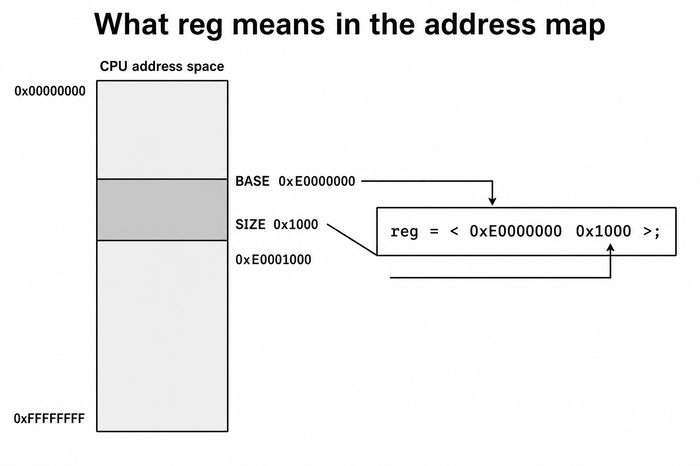
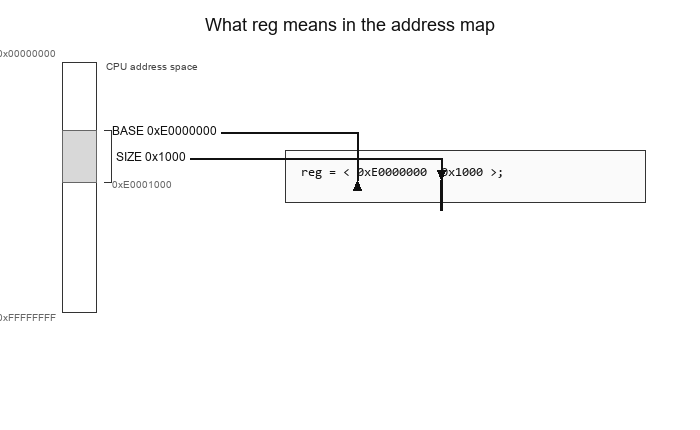
Fix Part 2 teaching figures for overall structure, reg map, and phandle.
Regenerate layout with non-overlapping skeleton code, a clean SIZE arrow, and full DT nodes linked by &clkc.

diff --git a/posts/embedded_linux/generate_part2_figures.py b/posts/embedded_linux/generate_part2_figures.py
@@ -1,0 +1,318 @@
+"""Generate Part 2 teaching figures: overall structure, reg map, phandle."""
+
+from __future__ import annotations
+
+from pathlib import Path
+
+from PIL import Image, ImageDraw, ImageFont
+
+IMG_DIR = Path(__file__).resolve().parent / "images"
+
+
+def load_font(size: int, mono: bool = False) -> ImageFont.FreeTypeFont | ImageFont.ImageFont:
+    if mono:
+        candidates = [r"C:\Windows\Fonts\consola.ttf", r"C:\Windows\Fonts\cour.ttf"]
+    else:
+        candidates = [r"C:\Windows\Fonts\arial.ttf", r"C:\Windows\Fonts\calibri.ttf"]
+    for path in candidates:
+        p = Path(path)
+        if p.exists():
+            try:
+                return ImageFont.truetype(str(p), size=size)
+            except OSError:
+                continue
+    return ImageFont.load_default()
+
+
+def text_size(draw: ImageDraw.ImageDraw, text: str, font) -> tuple[int, int]:
+    box = draw.textbbox((0, 0), text, font=font)
+    return box[2] - box[0], box[3] - box[1]
+
+
+def draw_arrow(draw: ImageDraw.ImageDraw, points: list[tuple[int, int]], width: int = 2) -> None:
+    if len(points) < 2:
+        return
+    draw.line(points, fill="#111111", width=width)
+    x1, y1 = points[-2]
+    x2, y2 = points[-1]
+    if abs(x2 - x1) >= abs(y2 - y1):
+        dx = -10 if x2 > x1 else 10
+        draw.polygon([(x2, y2), (x2 - dx, y2 - 4), (x2 - dx, y2 + 4)], fill="#111111")
+    else:
+        dy = -10 if y2 > y1 else 10
+        draw.polygon([(x2, y2), (x2 - 4, y2 - dy), (x2 + 4, y2 - dy)], fill="#111111")
+
+
+def draw_overall_structure(path: Path) -> None:
+    W, H = 920, 820
+    img = Image.new("RGB", (W, H), "white")
+    draw = ImageDraw.Draw(img)
+    title_font = load_font(18)
+    label_font = load_font(11)
+    code_font = load_font(10, mono=True)
+    note_font = load_font(10)
+
+    title = "Overall device tree structure"
+    tw, _ = text_size(draw, title, title_font)
+    draw.text(((W - tw) / 2, 14), title, fill="#111", font=title_font)
+
+    box_w, box_h, gap = 96, 24, 12
+
+    def node_box(x, y, text, fill="#f5f5f5", width=None, font=None):
+        w = width or box_w
+        font = font or label_font
+        draw.rectangle([x, y, x + w, y + box_h], fill=fill, outline="#333", width=1)
+        ttw, tth = text_size(draw, text, font)
+        draw.text((x + (w - ttw) / 2, y + (box_h - tth) / 2 - 1), text, fill="#111", font=font)
+
+    def hline(x1, x2, y):
+        draw.line([x1, y, x2, y], fill="#333", width=1)
+
+    def vline(x, y1, y2):
+        draw.line([x, y1, x, y2], fill="#333", width=1)
+
+    root_x = W // 2 - box_w // 2
+    root_y = 44
+    node_box(root_x, root_y, "/")
+    root_cx = W // 2
+    root_bot = root_y + box_h
+
+    tops = ["chosen", "aliases", "cpus", "memory@0", "reserved-memory", "axi", "fpga-region"]
+    total = len(tops) * box_w + (len(tops) - 1) * gap
+    start_x = (W - total) // 2
+    child_y = root_y + 58
+    mids = []
+    bus_y = root_bot + (child_y - root_bot) // 2
+    for i, name in enumerate(tops):
+        x = start_x + i * (box_w + gap)
+        node_box(x, child_y, name)
+        cx = x + box_w // 2
+        mids.append(cx)
+        vline(cx, bus_y, child_y)
+    vline(root_cx, root_bot, bus_y)
+    hline(mids[0], mids[-1], bus_y)
+
+    sub_y = child_y + 58
+    sub_w = 104
+    sub_font = load_font(8)
+
+    cpus_i = tops.index("cpus")
+    cpus_cx = start_x + cpus_i * (box_w + gap) + box_w // 2
+    cpu_names = ["cpu@0", "cpu@1"]
+    cpu_total = len(cpu_names) * sub_w + gap
+    cpu_start = cpus_cx - cpu_total // 2
+    cpu_bus = child_y + box_h + (sub_y - child_y - box_h) // 2
+    for i, name in enumerate(cpu_names):
+        x = cpu_start + i * (sub_w + gap)
+        node_box(x, sub_y, name, fill="#eef3ff", width=sub_w, font=sub_font)
+        cx = x + sub_w // 2
+        vline(cx, cpu_bus, sub_y)
+    vline(cpus_cx, child_y + box_h, cpu_bus)
+    hline(cpu_start + sub_w // 2, cpu_start + sub_w + gap + sub_w // 2, cpu_bus)
+
+    axi_i = tops.index("axi")
+    axi_cx = start_x + axi_i * (box_w + gap) + box_w // 2
+    axi_children = ["serial@e0000000", "i2c@e0004000", "my_ip@40000000"]
+    sub_total = len(axi_children) * sub_w + (len(axi_children) - 1) * 8
+    sub_start = axi_cx - sub_total // 2
+    axi_bus = cpu_bus
+    sub_centers = []
+    for i, name in enumerate(axi_children):
+        x = sub_start + i * (sub_w + 8)
+        node_box(x, sub_y, name, fill="#eef3ff", width=sub_w, font=sub_font)
+        cx = x + sub_w // 2
+        sub_centers.append(cx)
+        vline(cx, axi_bus, sub_y)
+    vline(axi_cx, child_y + box_h, axi_bus)
+    hline(sub_centers[0], sub_centers[-1], axi_bus)
+
+    draw.text((24, sub_y + 36), "Node hierarchy under /", fill="#555", font=note_font)
+
+    skeleton = """/dts-v1/;
+
+/ {
+    model = "Example SoC Board";
+    compatible = "vendor,board", "vendor,soc";
+    #address-cells = <1>;
+    #size-cells = <1>;
+
+    chosen { };
+    aliases { };
+
+    cpus {
+        cpu@0 { };
+        cpu@1 { };
+    };
+
+    memory@0 { };
+    reserved-memory { };
+
+    axi {
+        serial@e0000000 { };
+        i2c@e0004000 { };
+        my_ip@40000000 { };
+    };
+
+    fpga-region { };
+};"""
+
+    code_y = sub_y + 62
+    rx, ry, rw, rh = 36, code_y, W - 72, 300
+    draw.rectangle([rx, ry, rx + rw, ry + rh], fill="#fafafa", outline="#ccc", width=1)
+    draw.text((rx + 8, ry - 18), "Matching DTS skeleton", fill="#555", font=note_font)
+    y = ry + 10
+    for line in skeleton.splitlines():
+        draw.text((rx + 12, y), line, fill="#222", font=code_font)
+        y += 14
+
+    img.save(path)
+
+
+def draw_reg_map(path: Path) -> None:
+    W, H = 700, 430
+    img = Image.new("RGB", (W, H), "white")
+    draw = ImageDraw.Draw(img)
+    title_font = load_font(18)
+    label_font = load_font(12)
+    code_font = load_font(13, mono=True)
+    small_font = load_font(10)
+
+    title = "What reg means in the address map"
+    tw, _ = text_size(draw, title, title_font)
+    draw.text(((W - tw) / 2, 14), title, fill="#111", font=title_font)
+
+    bar_x, bar_y, bar_w, bar_h = 62, 62, 34, 250
+    draw.rectangle([bar_x, bar_y, bar_x + bar_w, bar_y + bar_h], outline="#333", width=1)
+    draw.text((bar_x + bar_w + 10, bar_y - 2), "CPU address space", fill="#444", font=small_font)
+    draw.text((bar_x - 6, bar_y - 12), "0x00000000", fill="#666", font=small_font, anchor="rt")
+    draw.text((bar_x - 6, bar_y + bar_h + 2), "0xFFFFFFFF", fill="#666", font=small_font, anchor="rt")
+
+    region_top = bar_y + 68
+    region_h = 52
+    region_bot = region_top + region_h
+    draw.rectangle([bar_x, region_top, bar_x + bar_w, region_bot], fill="#d8d8d8", outline="#666", width=1)
+
+    base_label = "BASE 0xE0000000"
+    size_label = "SIZE 0x1000"
+    draw.text((bar_x + bar_w + 16, region_top - 6), base_label, fill="#111", font=label_font)
+    draw.text((bar_x + bar_w + 16, region_bot - 4), "0xE0001000", fill="#666", font=small_font)
+
+    bx = bar_x + bar_w + 8
+    draw.line([bx, region_top, bx + 7, region_top], fill="#333", width=1)
+    draw.line([bx, region_bot, bx + 7, region_bot], fill="#333", width=1)
+    draw.line([bx + 7, region_top, bx + 7, region_bot], fill="#333", width=1)
+    size_y = region_top + region_h // 2 - 6
+    draw.text((bar_x + bar_w + 20, size_y), size_label, fill="#111", font=label_font)
+
+    code = "reg = < 0xE0000000  0x1000 >;"
+    cx, cy, cw, ch = 285, 150, 360, 52
+    draw.rectangle([cx, cy, cx + cw, cy + ch], fill="#fafafa", outline="#333", width=1)
+    draw.text((cx + 16, cy + 16), code, fill="#111", font=code_font)
+
+    val1_x = cx + 16 + text_size(draw, "reg = < ", code_font)[0]
+    val2_x = cx + 16 + text_size(draw, "reg = < 0xE0000000  ", code_font)[0]
+    val_y = cy + 18
+
+    base_lx = bar_x + bar_w + 16 + text_size(draw, base_label, label_font)[0]
+    base_ly = region_top + 2
+    draw_arrow(draw, [(base_lx + 4, base_ly), (val1_x, base_ly), (val1_x, val_y + 12)])
+
+    size_lx = bar_x + bar_w + 20 + text_size(draw, size_label, label_font)[0]
+    size_ly = size_y + 8
+    route_y = region_bot + 28
+    draw_arrow(draw, [(size_lx + 4, size_ly), (val2_x, size_ly), (val2_x, route_y), (val2_x, val_y + 12)])
+
+    img.save(path)
+
+
+def draw_node_box(
+    draw: ImageDraw.ImageDraw,
+    x: int,
+    y: int,
+    title: str,
+    lines: list[str],
+    font,
+    title_font,
+    min_w: int = 300,
+) -> tuple[int, int, int, int]:
+    pad_x, pad_y = 14, 12
+    line_h = 16
+    inner_w = max(min_w, max(text_size(draw, ln, font)[0] for ln in lines) + 8)
+    inner_w = max(inner_w, text_size(draw, title, title_font)[0] + 8)
+    h = pad_y + line_h + 8 + len(lines) * line_h + pad_y
+    draw.rectangle([x, y, x + inner_w + 2 * pad_x, y + h], fill="#f7f7f7", outline="#333", width=1)
+    draw.text((x + pad_x, y + pad_y), title, fill="#111", font=title_font)
+    ty = y + pad_y + line_h + 6
+    for ln in lines:
+        draw.text((x + pad_x, ty), ln, fill="#222", font=font)
+        ty += line_h
+    return x, y, x + inner_w + 2 * pad_x, y + h
+
+
+def draw_phandle(path: Path) -> None:
+    W, H = 860, 360
+    img = Image.new("RGB", (W, H), "white")
+    draw = ImageDraw.Draw(img)
+    title_font = load_font(18)
+    node_title = load_font(12)
+    code_font = load_font(11, mono=True)
+    note_font = load_font(11)
+
+    title = "Phandle links nodes"
+    tw, _ = text_size(draw, title, title_font)
+    draw.text(((W - tw) / 2, 14), title, fill="#111", font=title_font)
+
+    serial_lines = [
+        "serial@e0000000 {",
+        '    compatible = "xlnx,xuartps", "cdns,uart-r1p8";',
+        "    reg = <0xe0000000 0x1000>;",
+        "    clocks = <&clkc 23>, <&clkc 40>;",
+        '    clock-names = "uart_clk", "pclk";',
+        "};",
+    ]
+    clk_lines = [
+        "clkc: clock-controller@f8000000 {",
+        '    compatible = "xlnx,clkc";',
+        "    reg = <0xf8000000 0x1000>;",
+        "    #clock-cells = <1>;",
+        "};",
+    ]
+
+    left = draw_node_box(draw, 36, 58, "UART node", serial_lines, code_font, node_title, min_w=330)
+    right = draw_node_box(draw, 470, 58, "Clock controller node", clk_lines, code_font, node_title, min_w=320)
+
+    # Arrow from clocks property in UART node to clkc label on clock-controller node
+    clocks_y = 58 + 12 + 16 + 6 + 3 * 16 + 8
+    target_x = right[0]
+    target_y = 58 + 12 + 16 + 6 + 8
+    draw_arrow(
+        draw,
+        [
+            (left[2] - 12, clocks_y + 6),
+            (target_x - 24, clocks_y + 6),
+            (target_x - 24, target_y + 6),
+            (target_x - 4, target_y + 6),
+        ],
+        width=2,
+    )
+
+    draw.text(
+        ((W - text_size(draw, "&clkc points at the labeled clock-controller node", note_font)[0]) / 2, 300),
+        "&clkc points at the labeled clock-controller node",
+        fill="#444",
+        font=note_font,
+    )
+
+    img.save(path)
+
+
+def main() -> None:
+    IMG_DIR.mkdir(parents=True, exist_ok=True)
+    draw_overall_structure(IMG_DIR / "image2_p2.png")
+    draw_reg_map(IMG_DIR / "image3_p2.png")
+    draw_phandle(IMG_DIR / "image4_p2.png")
+    print("Wrote figures to", IMG_DIR)
+
+
+if __name__ == "__main__":
+    main()
